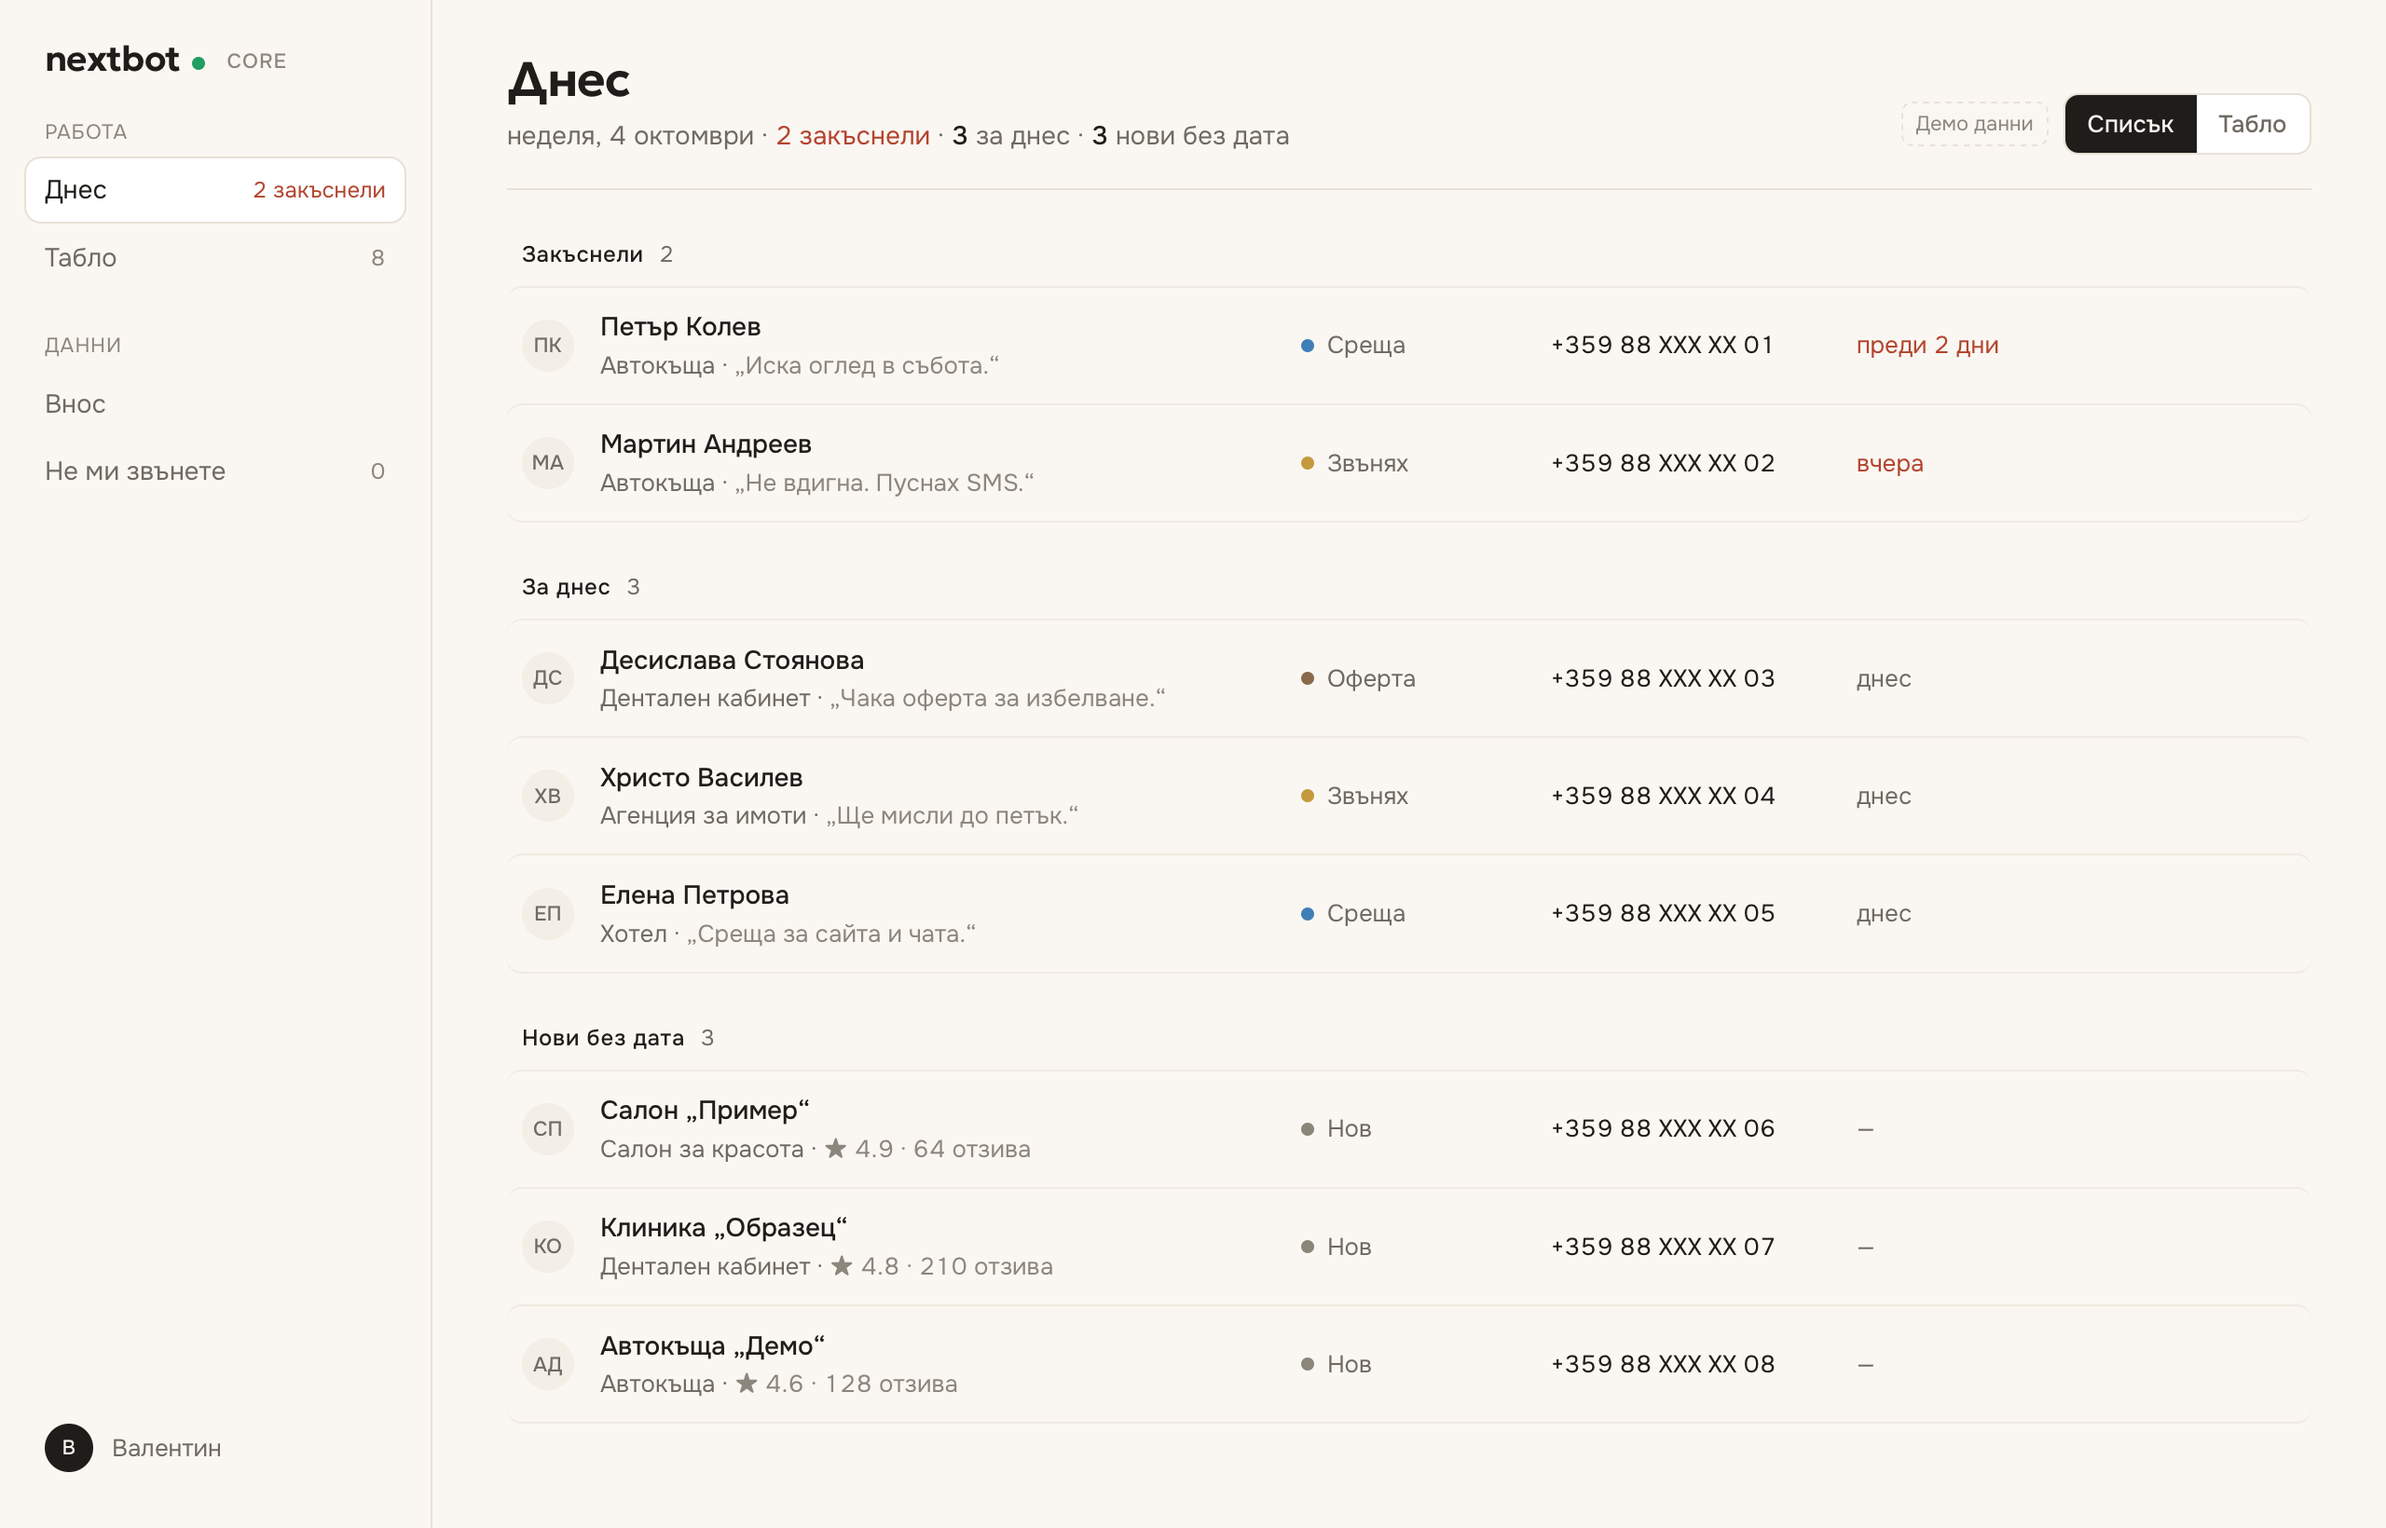
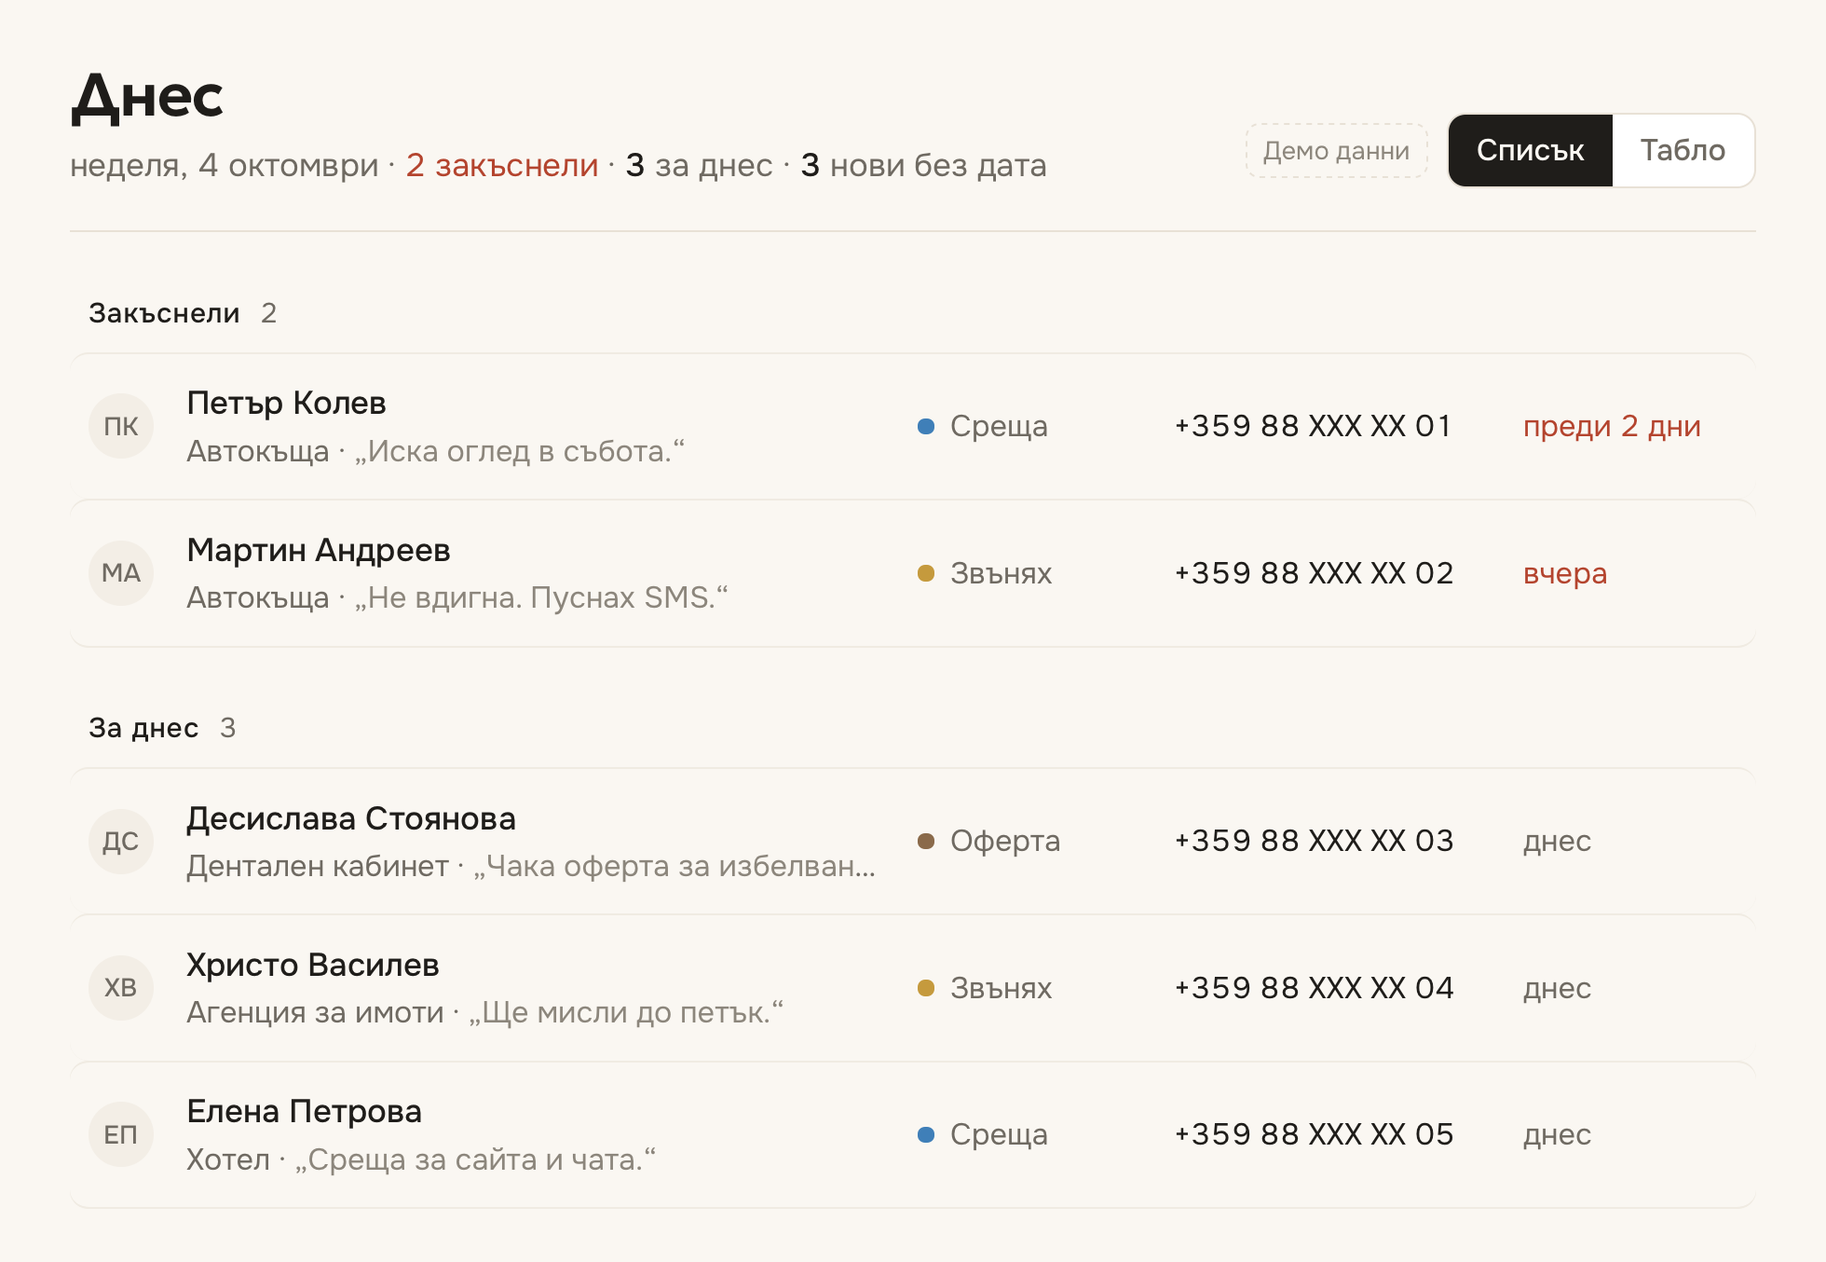
Homepage CORE: cropped, larger „Днес“ screenshot (title + first 5 rows, no sidebar); no „CORE · Днес“ bar over the frame

diff --git a/components/home/ProductFrame.tsx b/components/home/ProductFrame.tsx
@@ -1,11 +1,22 @@
 // A real product screen goes here (copy/DESIGN-REFRESH.md §1, §9.3). Until Valentin has a screenshot, this is a
 // clearly marked empty frame - nothing is drawn. Replace `children` (or pass `src`) when the screen exists.
 
-export function ProductFrame({ what, children, className = '' }: { what: string; children?: React.ReactNode; className?: string }) {
+export function ProductFrame({
+  what,
+  children,
+  className = '',
+  bar = true,
+}: {
+  what: string
+  children?: React.ReactNode
+  className?: string
+  /** thin window bar with the name of the screen; off when the screenshot already shows its own title */
+  bar?: boolean
+}) {
   return (
     <figure className={`m-0 overflow-hidden rounded-[12px] border border-[#E8E1D6] bg-white ${className}`} data-product-screen={what}>
       {/* window bar: a thin line, no dots or colours */}
-      <div className="flex h-9 items-center border-b border-[#E8E1D6] px-4 text-[12px] text-stone">{what}</div>
+      {bar && <div className="flex h-9 items-center border-b border-[#E8E1D6] px-4 text-[12px] text-stone">{what}</div>}
       {children ?? (
         <div className="flex aspect-[16/10] items-center justify-center bg-[#FCFAF7] p-6 text-center">
           <span className="text-[15px] text-stone">екран на продукта</span>

diff --git a/components/home/Sections.tsx b/components/home/Sections.tsx
@@ -98,12 +98,12 @@ export function CoreSection() {
       side={
         <div className="flex flex-col gap-2">
           <span className={TAG}>Пример с измислени данни</span>
-          <ProductFrame what="CORE · Днес">
+          <ProductFrame what="CORE · Днес" bar={false}>
             <Image
               src="/screens/core-dnes.png"
-              alt="Екранът „Днес“ в CORE: закъснели обаждания, обаждания за днес и нови клиенти без дата, с бутон „Звънях“ на всеки ред."
-              width={2560}
-              height={1640}
+              alt="Екранът „Днес“ в CORE: закъснели обаждания и обаждания за днес, с етап, телефон и срок на всеки ред."
+              width={1960}
+              height={1354}
               sizes="(min-width: 960px) 640px, 100vw"
               className="block h-auto w-full"
             />
